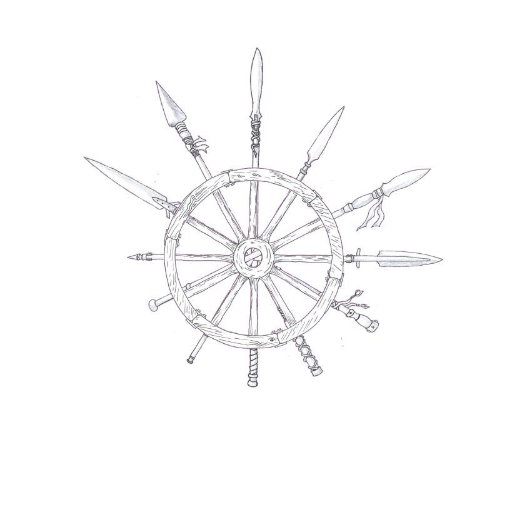
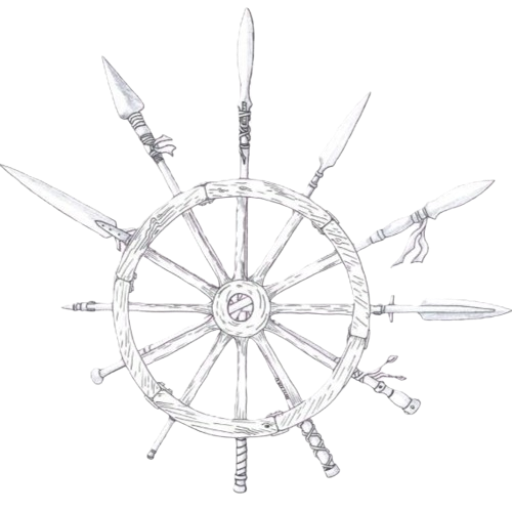
Modif img log pour fond transparent + header et navbar gén

diff --git a/index.html b/index.html
@@ -3,11 +3,11 @@
 
 <head>
   <meta charset="UTF-8" />
-  <link rel="icon" type="image/png" href="/favicon.png" />
-  <!-- <link rel="apple-touch-icon" sizes="180x180" href="/apple-touch-icon.png">
+  <!-- <link rel="icon" type="image/png" href="/favicon.png" /> -->
+  <link rel="apple-touch-icon" sizes="180x180" href="/apple-touch-icon.png">
   <link rel="icon" type="image/png" sizes="32x32" href="/favicon-32x32.png">
   <link rel="icon" type="image/png" sizes="16x16" href="/favicon-16x16.png">
-  <link rel="manifest" href="/site.webmanifest"> TODO : Faire fonctionner ^^-->
+  <link rel="manifest" href="/site.webmanifest">
   <meta name="viewport" content="width=device-width, initial-scale=1.0" />
   <meta name="author" content="Laurent Corten" />
 

diff --git a/src/features/navBar/NavBarZones.tsx b/src/features/navBar/NavBarZones.tsx
@@ -1,0 +1,24 @@
+import { Link } from 'react-router';
+
+
+export default function NavBarZones() {
+
+    return (
+        <nav className='nav-bar'>
+            <ul>
+                <li>
+                    <Link to="/">Accueil</Link>
+                </li>
+                <li>
+                    <Link to="/game">Le Jeu</Link>
+                </li>
+                <li>
+                    <Link to="/profile">Votre Profile</Link>
+                </li>
+                <li>
+                    <Link to="/auth">Connection</Link>
+                </li>
+            </ul>
+        </nav>
+    );
+}

diff --git a/src/App.tsx b/src/App.tsx
@@ -8,11 +8,13 @@ import RegisterPage from './pages/auth/Register.page';
 import LoginPage from './pages/auth/Login.page';
 import ProfilePage from './pages/common/Profile.page';
 import { Toaster } from 'sonner';
+import Header from './components/header/Header';
 
 function App() {
 
   return (
     <>
+      <Header />
       <Toaster richColors closeButton />
       <Routes>
         <Route index element={<HomePage />} />

diff --git a/src/components/header/Header.tsx b/src/components/header/Header.tsx
@@ -1,0 +1,13 @@
+import NavBarZones from "../../features/navBar/NavBarZones";
+import logo from "../../assets/images/logoSansFond.png";
+
+export default function Header() {
+
+    return (
+        <header id='header' className="header-global">
+            <img className="header-img" src={logo} alt="logo des six lances" />
+            <h1>Sortilège</h1>
+            <NavBarZones />
+        </header>
+    );
+}
